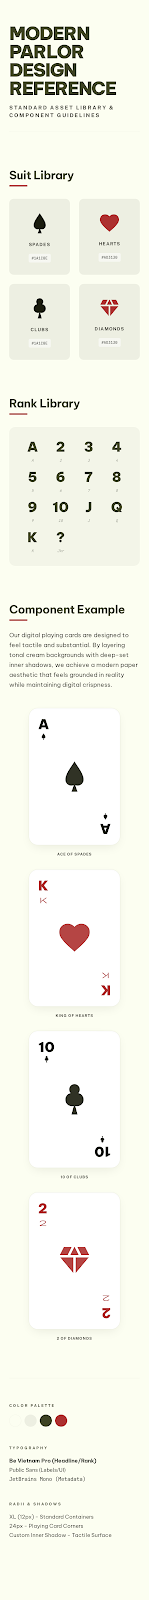
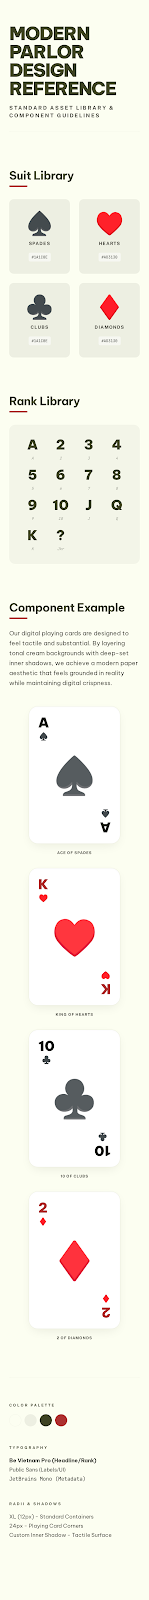
Finalize rules and documentation cross-links

diff --git a/ai-rules/ui-ux-art-rules.md b/ai-rules/ui-ux-art-rules.md
@@ -13,9 +13,13 @@ This document synthesizes the visual and interaction standards for the "Modern P
 ### Color Tokens
 *   **Primary/Accent:** Terracotta (#ad3130). Used for major CTAs, hand selection, and critical rank indicators.
 *   **Neutral:** Deep Olive (#555a39). Used for text, grounding elements, and secondary interactions.
-*   **Card Suits:**
-    *   `Hearts`/`Diamonds`: Terracotta (#ad3130).
-    *   `Spades`/`Clubs`: Deep Olive (#555a39).
+*   **Card Suits (Custom Assets):**
+    - `Hearts`: `suits-hearts.png` (Terracotta #ad3130)
+    - `Diamonds`: `suits-diamonds.png` (Terracotta #ad3130)
+    - `Spades`: `suits-spades.png` (Deep Olive #555a39)
+    - `Clubs`: `suits-clubs.png` (Deep Olive #555a39)
+    - **Path:** `src/assets/suits/`
+    - **Usage:** Use as high-res foreground assets for cards and UI indicators.
 
 ### Typography
 *   **Headlines/Display:** **Be Vietnam Pro** (Bold/ExtraBold). Tight tracking, editorial feel.
@@ -59,8 +63,8 @@ All cards are composite objects rendered in 5 functional layers (L0-L4):
 
 ---
 
-## 5. Interaction Ethics
-
-*   **Non-Blocking Logic:** UI must never wait for an animation to finish before updating internal game state (unless it’s a critical transition like "Reshuffling").
+## 5. Dice & Interaction Assets
+*   **Dice:** Use custom SVGs located at `src/assets/dice/` (`dice-six-faces-[one-six].svg`).
+*   **Animation:** Use high-contrast color fills (Terracotta or Deep Olive) for the pips to ensure visibility against the parlor background.
 *   **Haptics:** Trigger a "Tick" (10ms) on card selection and a "Success" vibration on hand play.
 *   **Accessibility:** All buttons must have a minimum touch target of `48px x 48px`, regardless of visual size.

diff --git a/ai-rules/architecture-rules.md b/ai-rules/architecture-rules.md
@@ -10,6 +10,8 @@ To maintain a scalable codebase, the application should be structured into four 
 2.  **Logic (The Engine)**: Pure functions that calculate scores, handle deck reshuffling, and manage game progression.
 3.  **View (The UI Component)**: React/Vite (or similar) components that render based on the State. Components should be "dumb" and only emit events.
 4.  **Assets (The Registry)**: A dynamic system to load/swap card skins, icons, and sounds.
+    - **Suits:** `src/assets/suits/*.png`
+    - **Dice:** `src/assets/dice/*.svg`
 
 ## 2. Layered Card System
 
@@ -67,6 +69,8 @@ The game should detect its environment to optimize performance and UI:
 
 Cosmetics should be implemented via a "Skin Registry":
 - A JSON mapping that points `CardID` to specific asset paths for Base, Rank, and Suit layers.
+- **Default Suits:** Mapped to `src/assets/suits/suits-[suit].png`.
+- **Default Dice:** Mapped to `src/assets/dice/dice-six-faces-[value].svg`.
 - To unlock a skin, simply update the `currentSkin` key in the **State Layer**.
 - All components must listen to this key and re-render their layers accordingly.
 

diff --git a/ai-rules/about-dice-poker.md b/ai-rules/about-dice-poker.md
@@ -50,7 +50,7 @@ Dice Poker is a solo roguelike-inspired card game that combines poker hand scori
 - **Game End**: Play exactly **15 hands**. Total score is the sum of all 15 hand scores.
 
 ## Technical Requirements
-- **Platform Support**: The game is intended to be played on web as well as mobile. It will be hosted on itch.io, and a personal free page on netlify The main aspect ratio is that of a mobile. Use a default iPhone 15 size to build it. More details should be updated here when the architecture file is updated.
+- **Platform Support**: The game is intended for web and mobile (itch.io/Netlify). The core viewport is optimized for **iPhone 15 (9:16 Portrait)**. See [architecture-rules.md](file:///c:/Users/ishan/Documents/GitHub/dice-poker-revamp/ai-rules/architecture-rules.md) for technical specs.
 - **Scalability**: Architecture should allow for easy addition of new cards, deck types, or modifiers.
 - **Configuration**: Game parameters (multipliers, hand count, card values) should be editable easily through a game-config.json file
 - **UI/UX**: Update with the relevant md file links once they are created

diff --git a/ai-rules/design-system.md b/ai-rules/design-system.md
@@ -34,6 +34,7 @@ The palette is rooted in earth tones and cream foundations, designed to reduce e
 * `surface-container`: #edefe2
 * `surface-container-highest`: #e1e4d7
 * `on-surface-variant`: #47473e (Subtle text/icons)
+* **Assets:** Custom suit icons are stored as high-res PNGs (`src/assets/suits/`), and dice faces are custom SVGs (`src/assets/dice/`).
 
 ---
 
